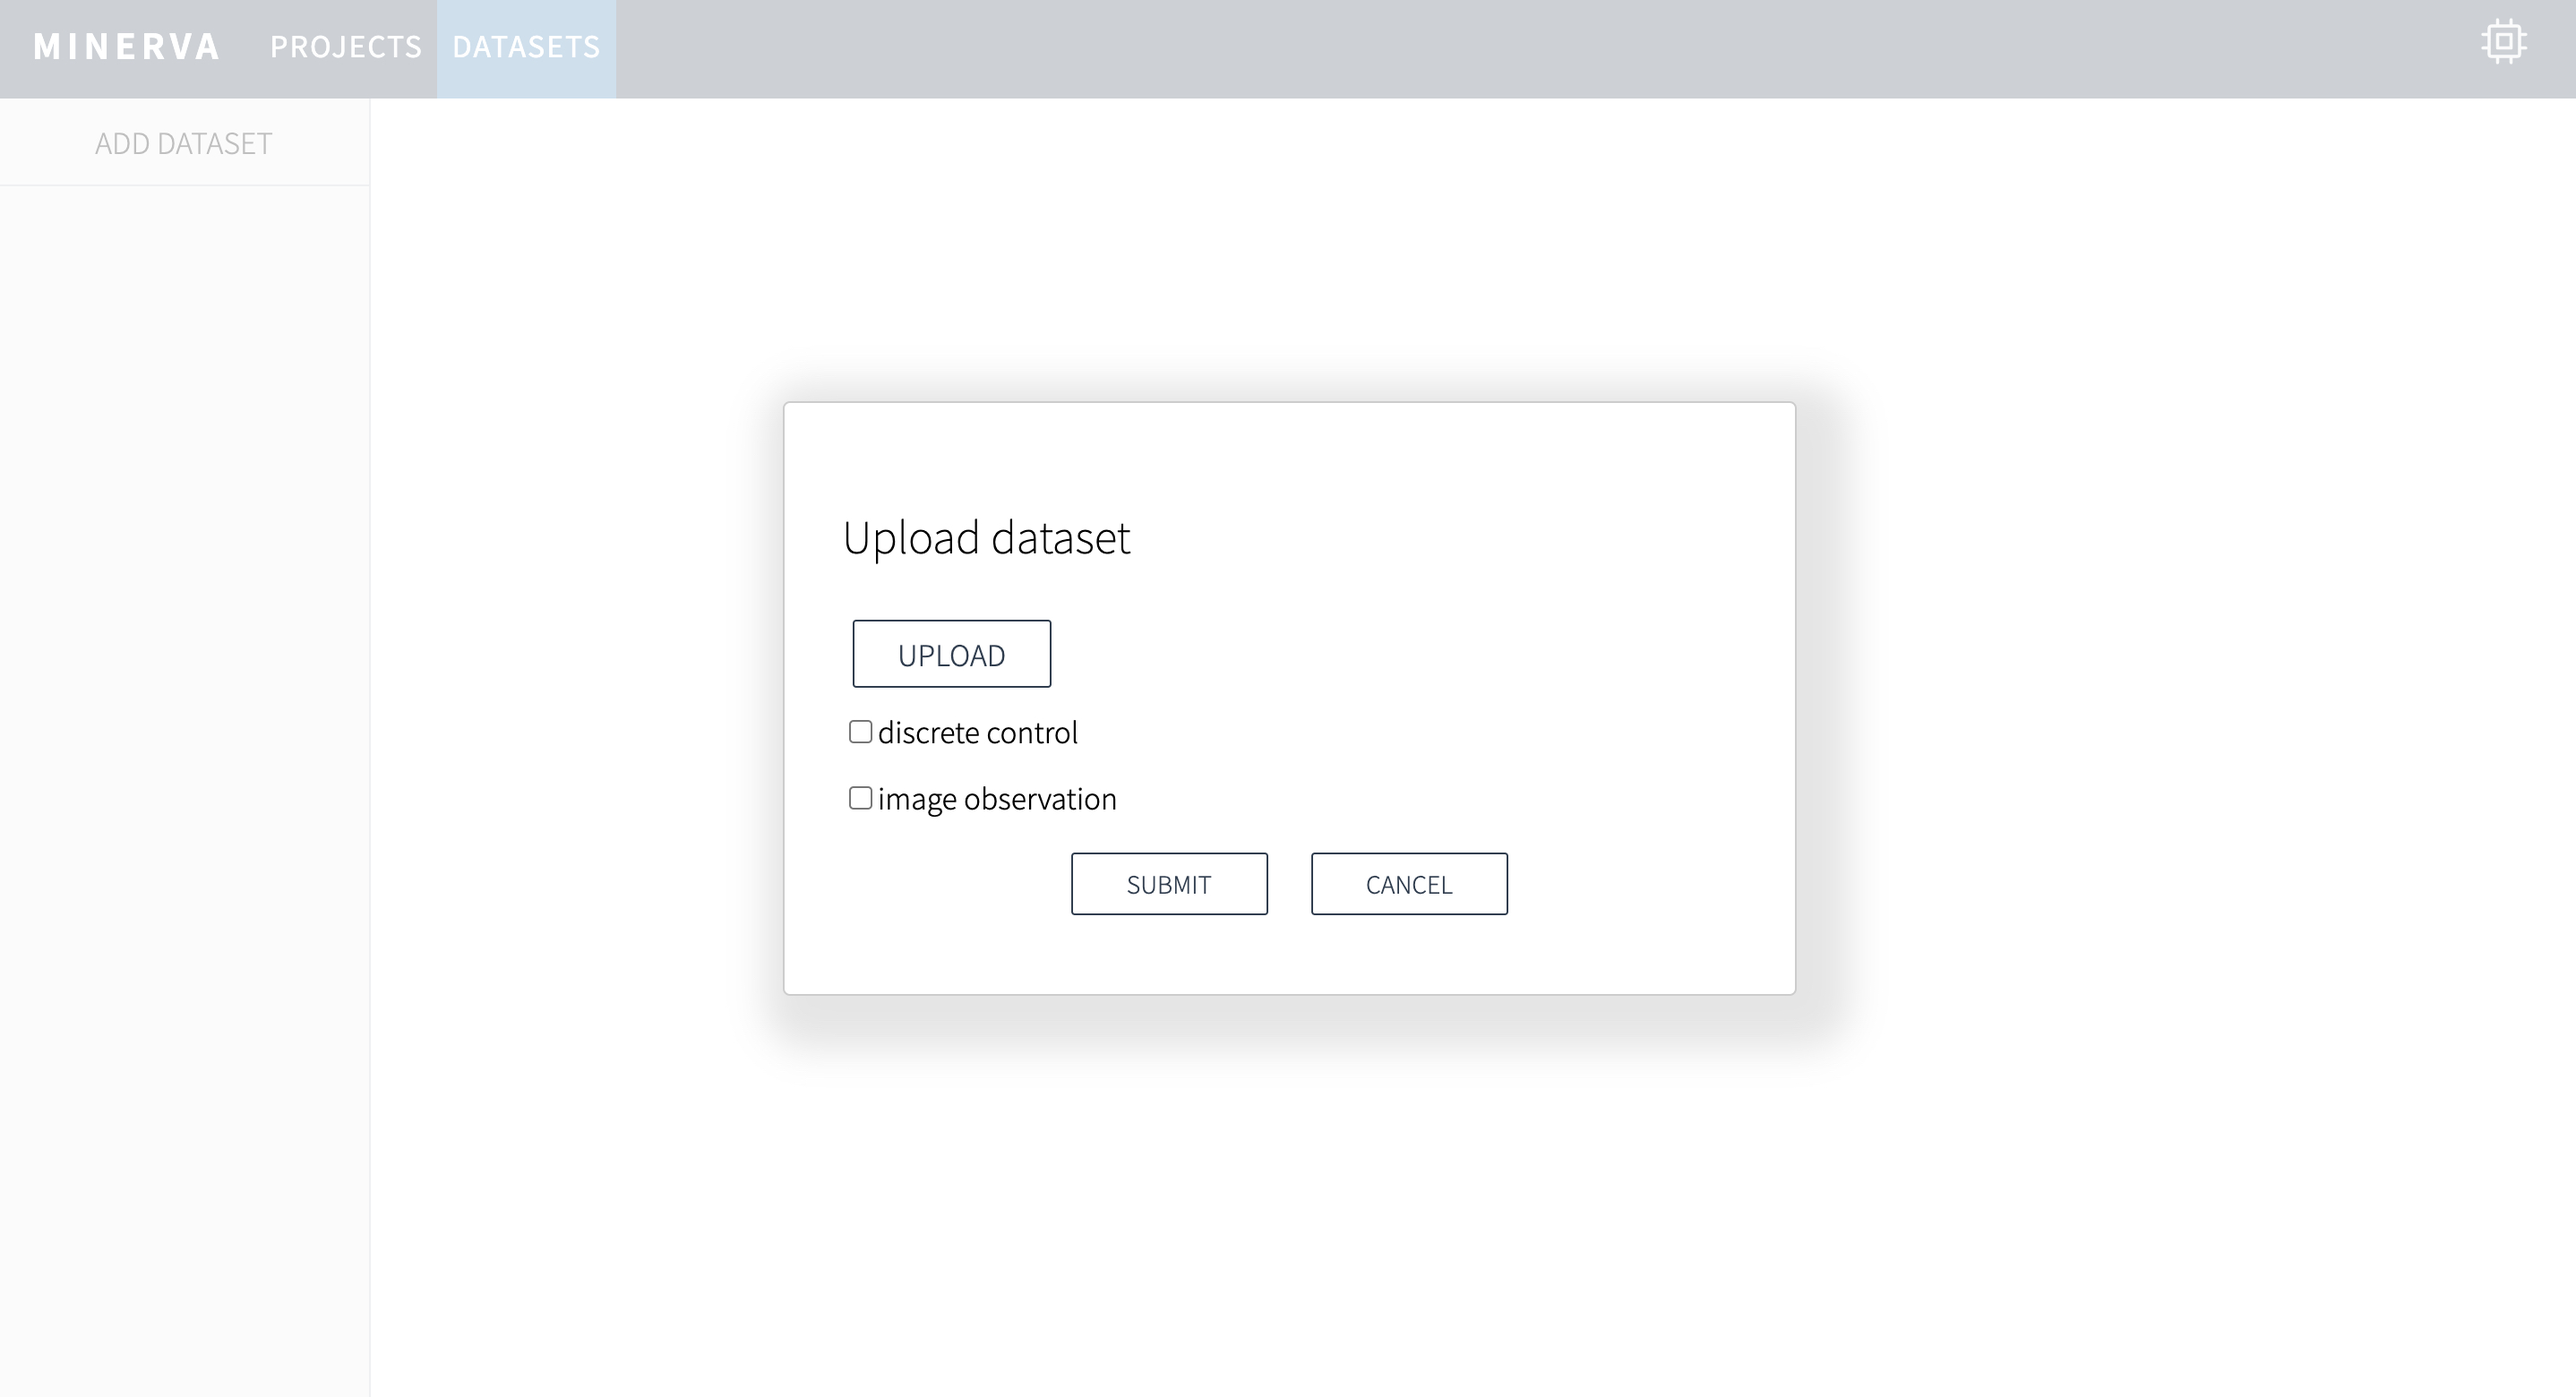
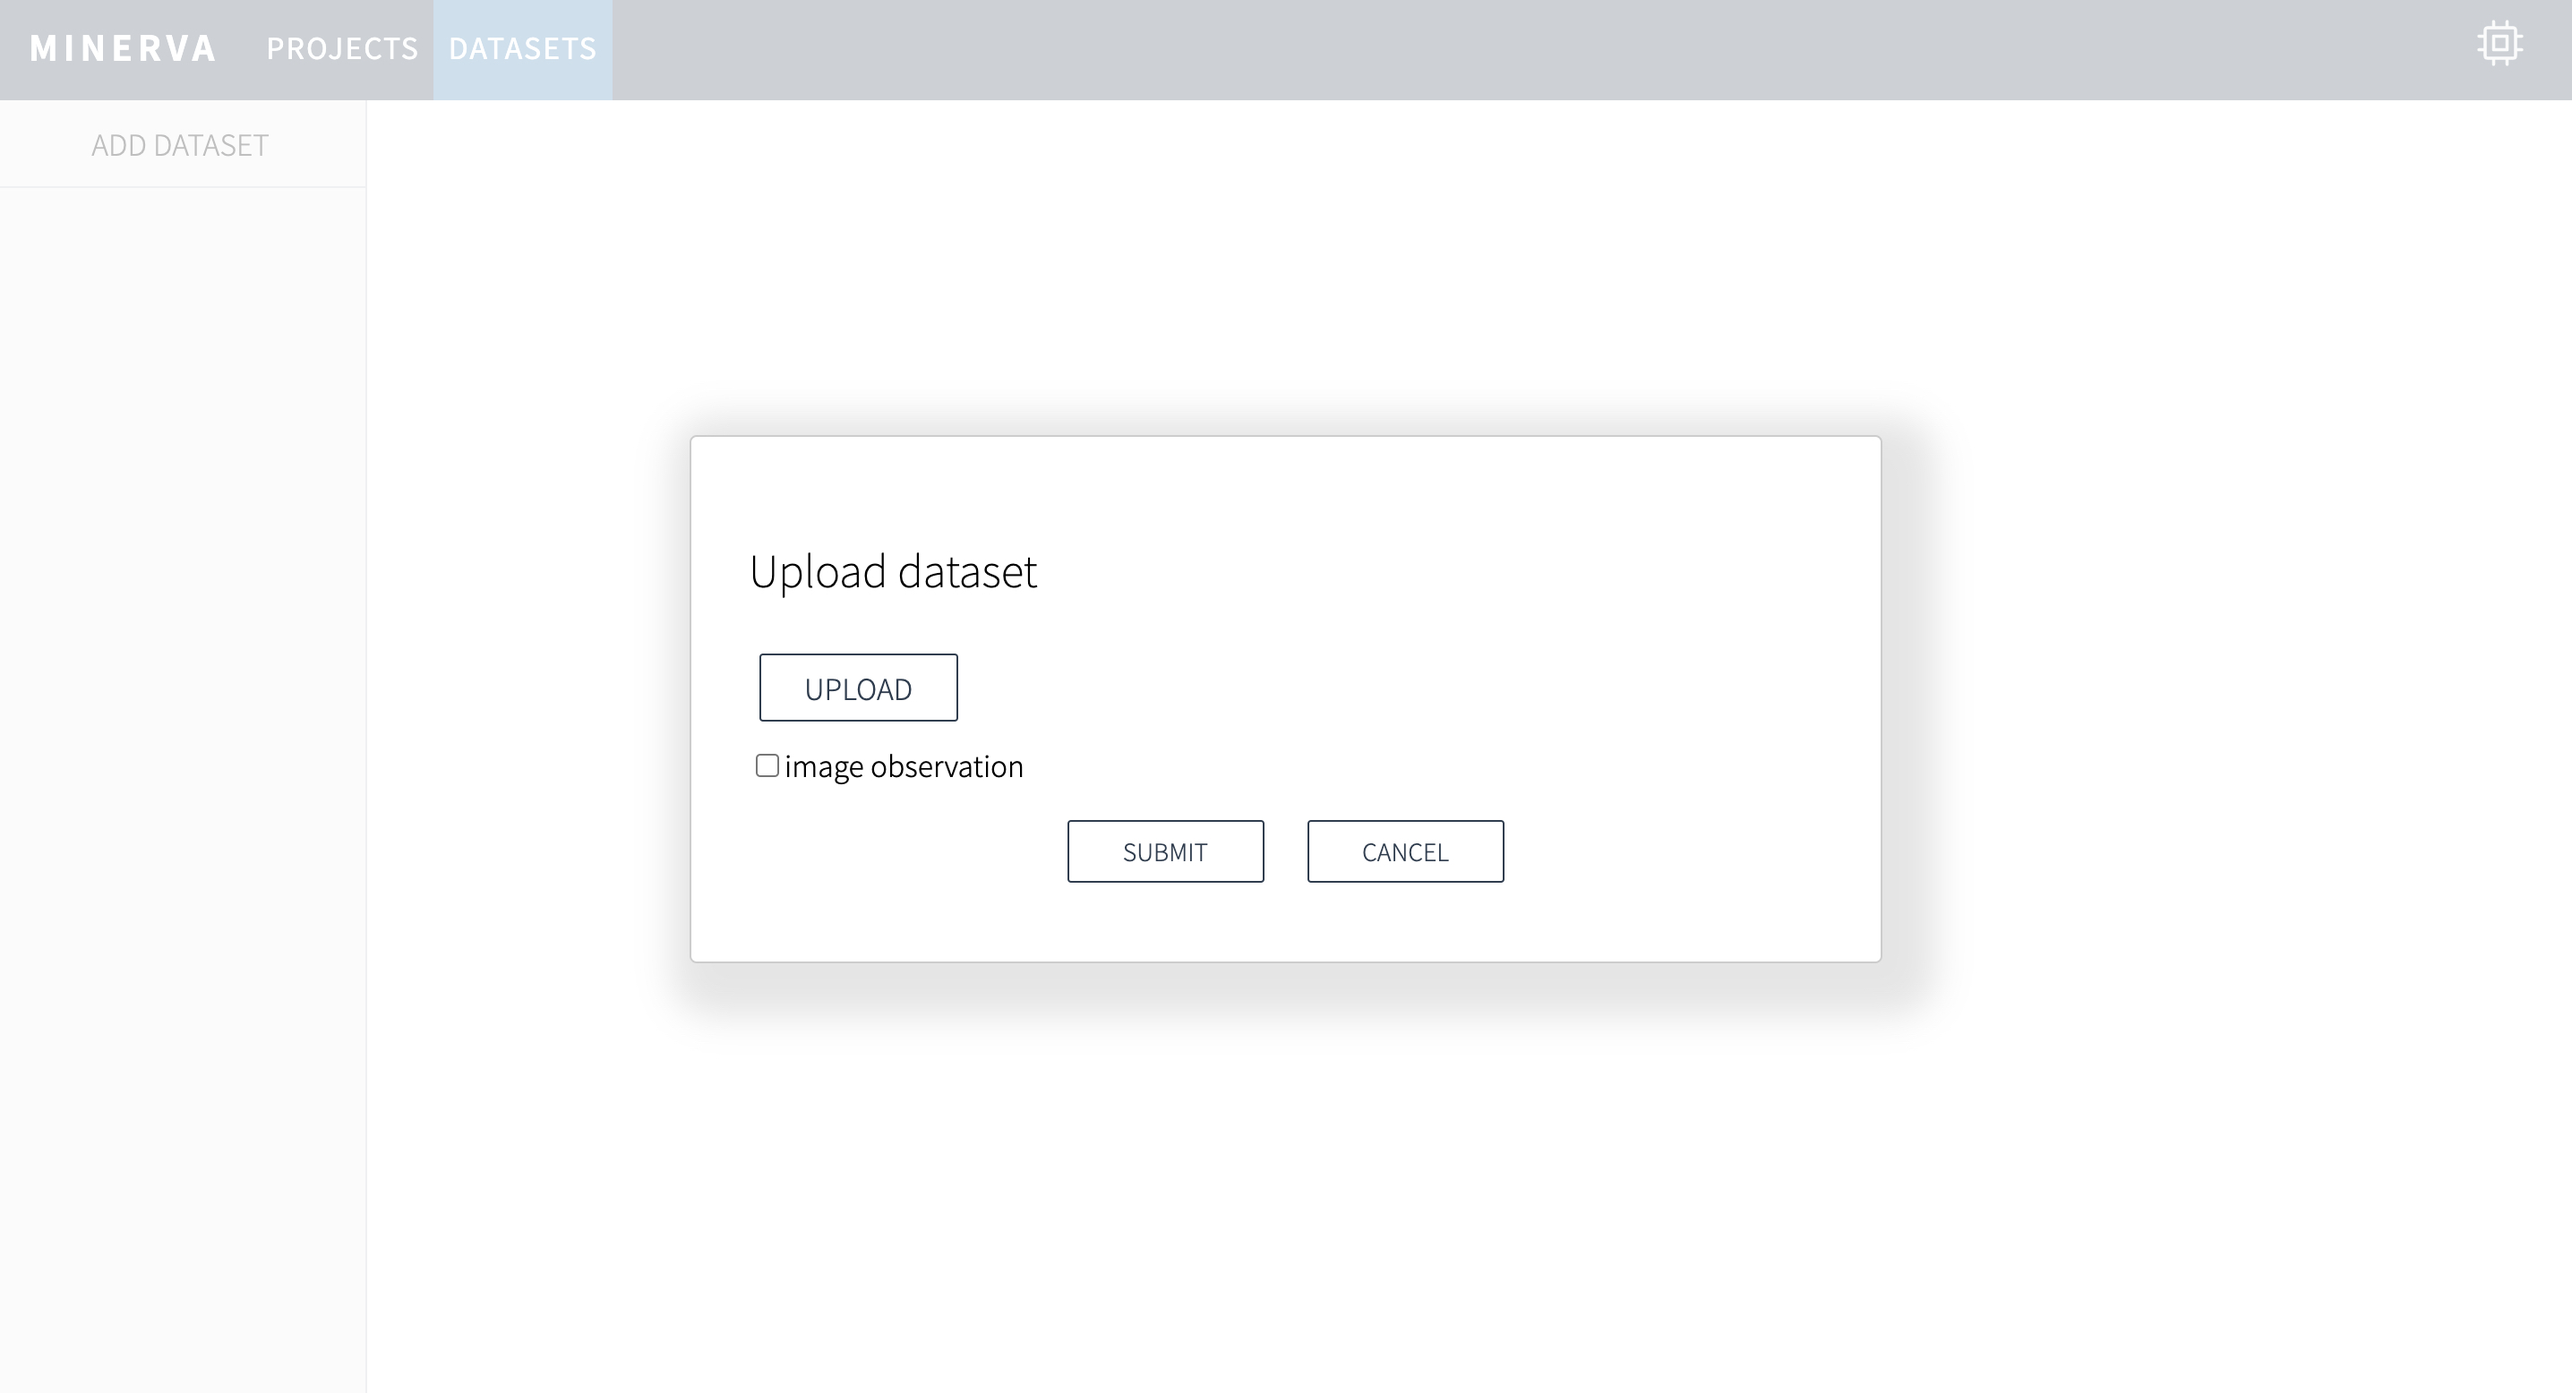
Update document

diff --git a/docs/getting_started.rst b/docs/getting_started.rst
@@ -98,8 +98,7 @@ Upload dataset with vector observation
 ~~~~~~~~~~~~~~~~~~~~~~~~~~~~~~~~~~~~~~
 
 1. Click ``UPLOAD`` button to select the dataset CSV file.
-2. Check ``discrete control`` if the action-space is discrete.
-3. Click ``SUBMIT`` to upload the dataset.
+2. Click ``SUBMIT`` to upload the dataset.
 
 .. image:: ./assets/dataset_dialog.jpg
 
@@ -111,10 +110,9 @@ Upload dataset with image observation
 ~~~~~~~~~~~~~~~~~~~~~~~~~~~~~~~~~~~~~
 
 1. Click ``UPLOAD`` button to select the dataset CSV file.
-2. Check ``discrete control`` if the action-space is discrete.
-3. Check ``image observation``.
-4. Click ``UPLOAD IMAGE DIRECTORY`` button to select the directory containing image files.
-5. Click ``SUBMIT`` to upload the dataset.
+2. Check ``image observation``.
+3. Click ``UPLOAD IMAGE DIRECTORY`` button to select the directory containing image files.
+4. Click ``SUBMIT`` to upload the dataset.
 
 .. image:: ./assets/image_dataset_dialog.jpg
 
